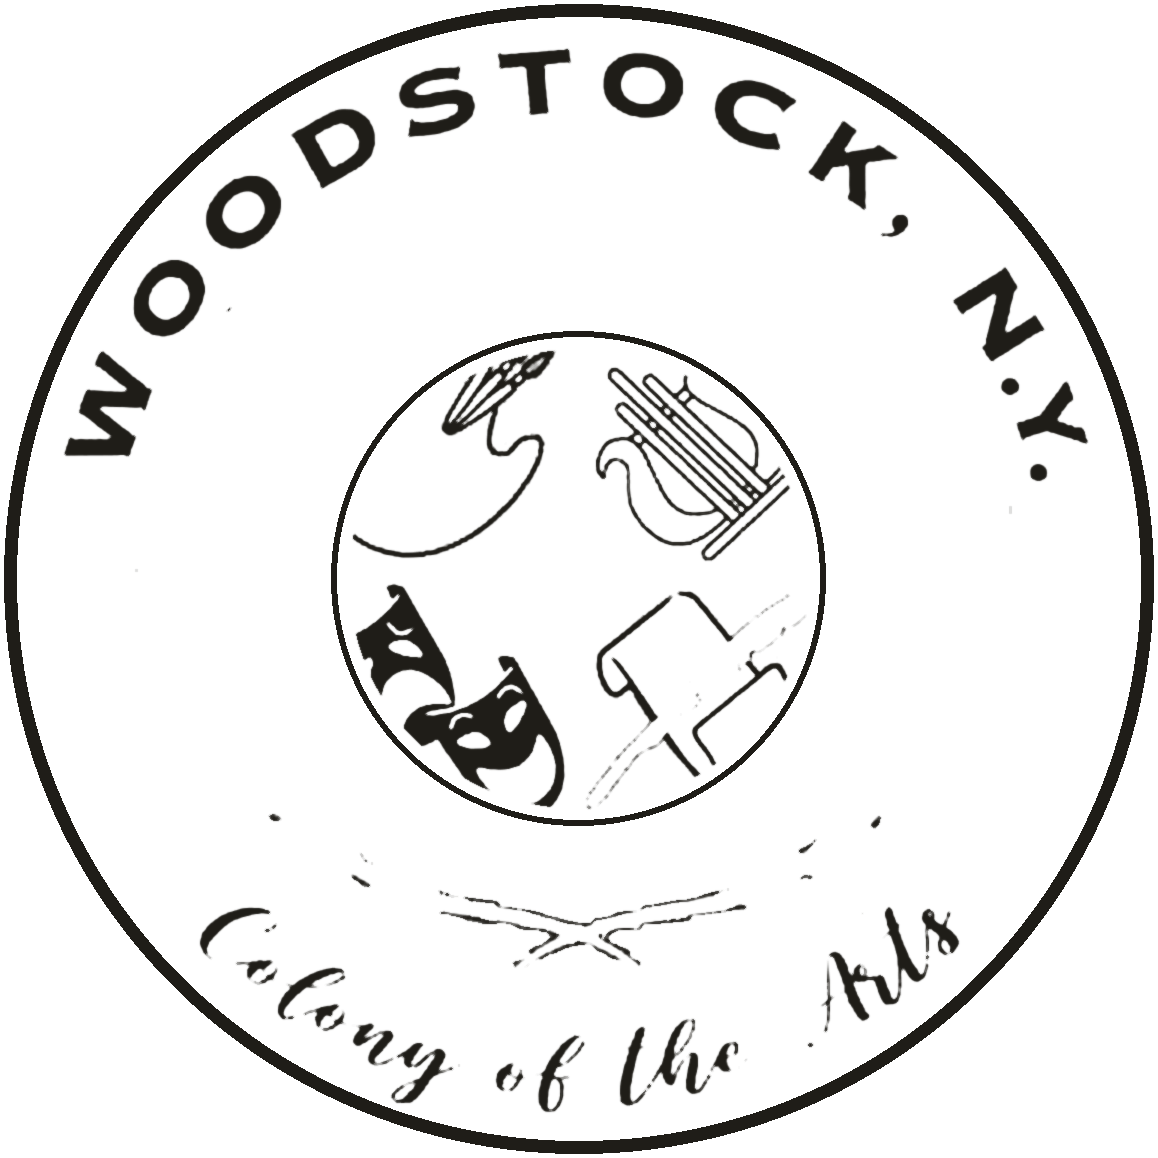
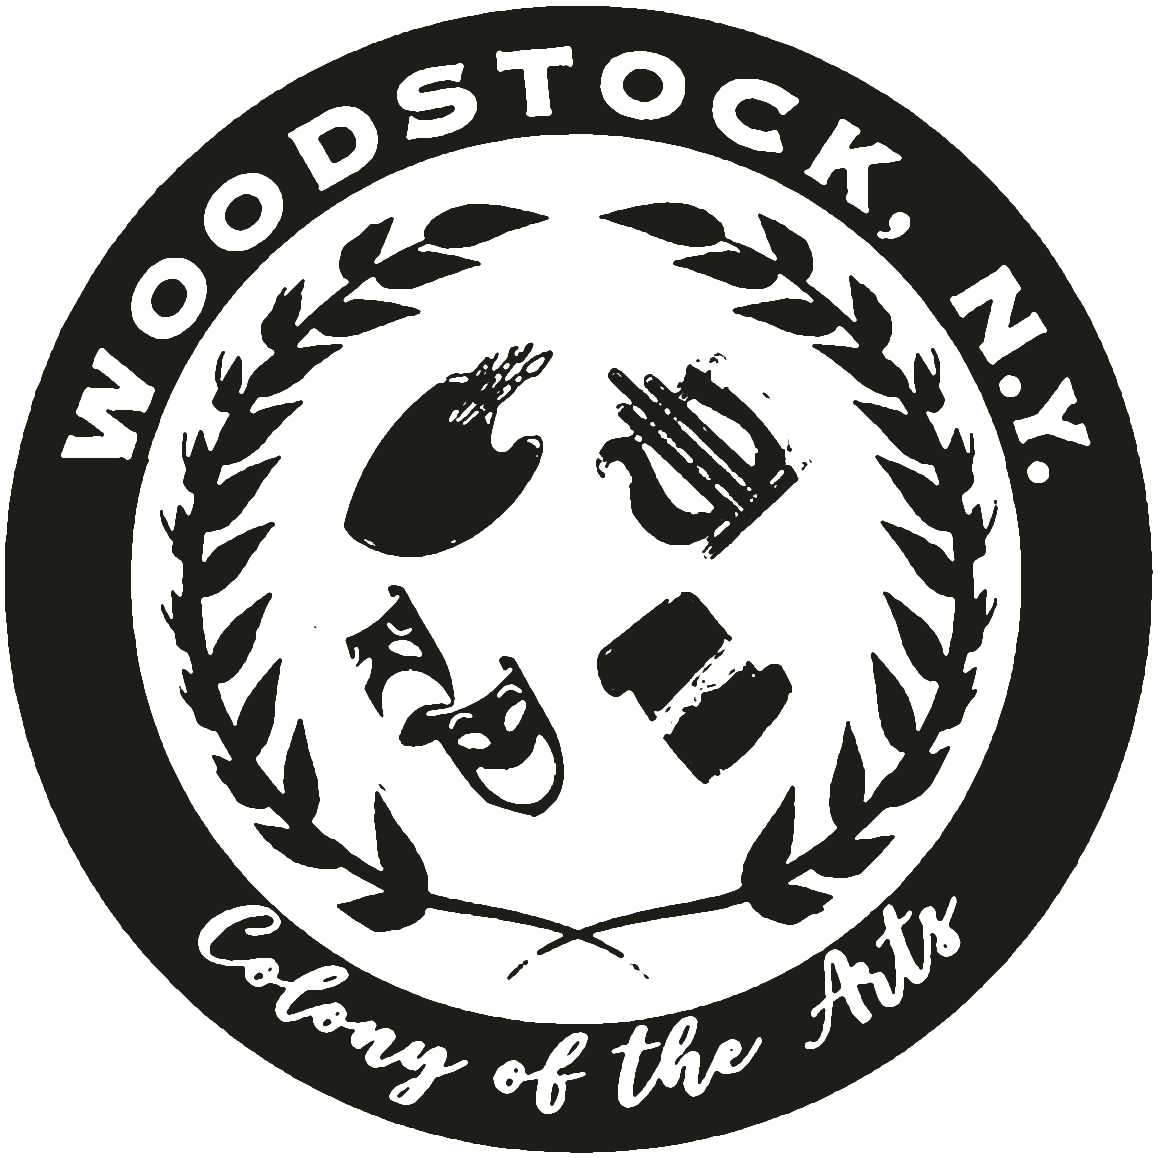
Woodstock badge and crisper Davi Music
Claude-Session: https://claude.ai/code/session_015KQFJCzFPqNAcjc17UuvdV

diff --git a/about.html b/about.html
@@ -18,7 +18,7 @@
 <link rel="preconnect" href="https://fonts.googleapis.com">
 <link rel="preconnect" href="https://fonts.gstatic.com" crossorigin>
 <link href="https://fonts.googleapis.com/css2?family=Anton&family=Caveat:wght@500;600&family=Fraunces:ital,opsz,wght@0,9..144,400;0,9..144,500;1,9..144,400;1,9..144,500&family=Inter:wght@300;400;500&family=JetBrains+Mono:wght@400;500&display=swap" rel="stylesheet">
-<link rel="stylesheet" href="css/site.css?v=202611141457">
+<link rel="stylesheet" href="css/site.css?v=202611141501">
 </head>
 <body class="theme-ink">
 <a class="skip" href="#main">Skip to content</a>
@@ -96,7 +96,7 @@
       <li><img src="images/clients/vmn-sand.png" alt="Virginia Mediation Network" style="height:46px"></li>
       <li><img src="images/clients/crcmc-sand.png" alt="CRCMC" style="height:32px"></li>
       <li><img src="images/clients/private-palate-sand.png" alt="Private Palate" style="height:22px"></li>
-      <li><img src="images/clients/woodstock-sand.png" alt="Woodstock, N.Y." style="height:100px"></li>
+      <li><img src="images/clients/woodstock-sand.png" alt="Woodstock, N.Y." style="height:84px"></li>
       <li><img src="images/clients/secret-city-sand.png" alt="The Secret City" style="height:56px"></li>
       <li><img src="images/clients/chappo-sand.png" alt="Chappo" style="height:30px"></li>
       <li><img src="images/clients/davi-music-sand.png" alt="Davi Music" style="height:40px"></li>
@@ -118,6 +118,6 @@
     <span>© <span class="yr">2026</span> A Digital Media Studio, LLC</span>
   </div>
 </footer>
-<script src="js/site.js?v=202611141457"></script>
+<script src="js/site.js?v=202611141501"></script>
 </body>
 </html>

diff --git a/index.html b/index.html
@@ -18,7 +18,7 @@
 <link rel="preconnect" href="https://fonts.googleapis.com">
 <link rel="preconnect" href="https://fonts.gstatic.com" crossorigin>
 <link href="https://fonts.googleapis.com/css2?family=Anton&family=Caveat:wght@500;600&family=Fraunces:ital,opsz,wght@0,9..144,400;0,9..144,500;1,9..144,400;1,9..144,500&family=Inter:wght@300;400;500&family=JetBrains+Mono:wght@400;500&display=swap" rel="stylesheet">
-<link rel="stylesheet" href="css/site.css?v=202611141457">
+<link rel="stylesheet" href="css/site.css?v=202611141501">
 </head>
 <body class="theme-paper">
 <a class="skip" href="#main">Skip to content</a>
@@ -108,7 +108,7 @@
       <li><img src="images/clients/vmn-ink.png" alt="Virginia Mediation Network" style="height:46px"></li>
       <li><img src="images/clients/crcmc-ink.png" alt="CRCMC" style="height:32px"></li>
       <li><img src="images/clients/private-palate-ink.png" alt="Private Palate" style="height:22px"></li>
-      <li><img src="images/clients/woodstock-ink.png" alt="Woodstock, N.Y." style="height:100px"></li>
+      <li><img src="images/clients/woodstock-ink.png" alt="Woodstock, N.Y." style="height:84px"></li>
       <li><img src="images/clients/secret-city-ink.png" alt="The Secret City" style="height:56px"></li>
       <li><img src="images/clients/chappo-ink.png" alt="Chappo" style="height:30px"></li>
       <li><img src="images/clients/davi-music-ink.png" alt="Davi Music" style="height:40px"></li>
@@ -146,6 +146,6 @@
     <span>© <span class="yr">2026</span> A Digital Media Studio, LLC</span>
   </div>
 </footer>
-<script src="js/site.js?v=202611141457"></script>
+<script src="js/site.js?v=202611141501"></script>
 </body>
 </html>

diff --git a/builds.html b/builds.html
@@ -18,7 +18,7 @@
 <link rel="preconnect" href="https://fonts.googleapis.com">
 <link rel="preconnect" href="https://fonts.gstatic.com" crossorigin>
 <link href="https://fonts.googleapis.com/css2?family=Anton&family=Caveat:wght@500;600&family=Fraunces:ital,opsz,wght@0,9..144,400;0,9..144,500;1,9..144,400;1,9..144,500&family=Inter:wght@300;400;500&family=JetBrains+Mono:wght@400;500&display=swap" rel="stylesheet">
-<link rel="stylesheet" href="css/site.css?v=202611141457">
+<link rel="stylesheet" href="css/site.css?v=202611141501">
 </head>
 <body class="theme-denim">
 <a class="skip" href="#main">Skip to content</a>
@@ -137,6 +137,6 @@
     <span>© <span class="yr">2026</span> A Digital Media Studio, LLC</span>
   </div>
 </footer>
-<script src="js/site.js?v=202611141457"></script>
+<script src="js/site.js?v=202611141501"></script>
 </body>
 </html>

diff --git a/photography.html b/photography.html
@@ -18,7 +18,7 @@
 <link rel="preconnect" href="https://fonts.googleapis.com">
 <link rel="preconnect" href="https://fonts.gstatic.com" crossorigin>
 <link href="https://fonts.googleapis.com/css2?family=Anton&family=Caveat:wght@500;600&family=Fraunces:ital,opsz,wght@0,9..144,400;0,9..144,500;1,9..144,400;1,9..144,500&family=Inter:wght@300;400;500&family=JetBrains+Mono:wght@400;500&display=swap" rel="stylesheet">
-<link rel="stylesheet" href="css/site.css?v=202611141457">
+<link rel="stylesheet" href="css/site.css?v=202611141501">
 </head>
 <body class="theme-denim">
 <a class="skip" href="#main">Skip to content</a>
@@ -142,6 +142,6 @@
     <span>© <span class="yr">2026</span> A Digital Media Studio, LLC</span>
   </div>
 </footer>
-<script src="js/site.js?v=202611141457"></script>
+<script src="js/site.js?v=202611141501"></script>
 </body>
 </html>

diff --git a/retainer.html b/retainer.html
@@ -18,7 +18,7 @@
 <link rel="preconnect" href="https://fonts.googleapis.com">
 <link rel="preconnect" href="https://fonts.gstatic.com" crossorigin>
 <link href="https://fonts.googleapis.com/css2?family=Anton&family=Caveat:wght@500;600&family=Fraunces:ital,opsz,wght@0,9..144,400;0,9..144,500;1,9..144,400;1,9..144,500&family=Inter:wght@300;400;500&family=JetBrains+Mono:wght@400;500&display=swap" rel="stylesheet">
-<link rel="stylesheet" href="css/site.css?v=202611141457">
+<link rel="stylesheet" href="css/site.css?v=202611141501">
 </head>
 <body class="theme-denim">
 <a class="skip" href="#main">Skip to content</a>
@@ -112,6 +112,6 @@
     <span>© <span class="yr">2026</span> A Digital Media Studio, LLC</span>
   </div>
 </footer>
-<script src="js/site.js?v=202611141457"></script>
+<script src="js/site.js?v=202611141501"></script>
 </body>
 </html>

diff --git a/get-in-touch.html b/get-in-touch.html
@@ -18,7 +18,7 @@
 <link rel="preconnect" href="https://fonts.googleapis.com">
 <link rel="preconnect" href="https://fonts.gstatic.com" crossorigin>
 <link href="https://fonts.googleapis.com/css2?family=Anton&family=Caveat:wght@500;600&family=Fraunces:ital,opsz,wght@0,9..144,400;0,9..144,500;1,9..144,400;1,9..144,500&family=Inter:wght@300;400;500&family=JetBrains+Mono:wght@400;500&display=swap" rel="stylesheet">
-<link rel="stylesheet" href="css/site.css?v=202611141457">
+<link rel="stylesheet" href="css/site.css?v=202611141501">
 </head>
 <body class="theme-ink">
 <a class="skip" href="#main">Skip to content</a>
@@ -98,6 +98,6 @@
     <span>© <span class="yr">2026</span> A Digital Media Studio, LLC</span>
   </div>
 </footer>
-<script src="js/site.js?v=202611141457"></script>
+<script src="js/site.js?v=202611141501"></script>
 </body>
 </html>
